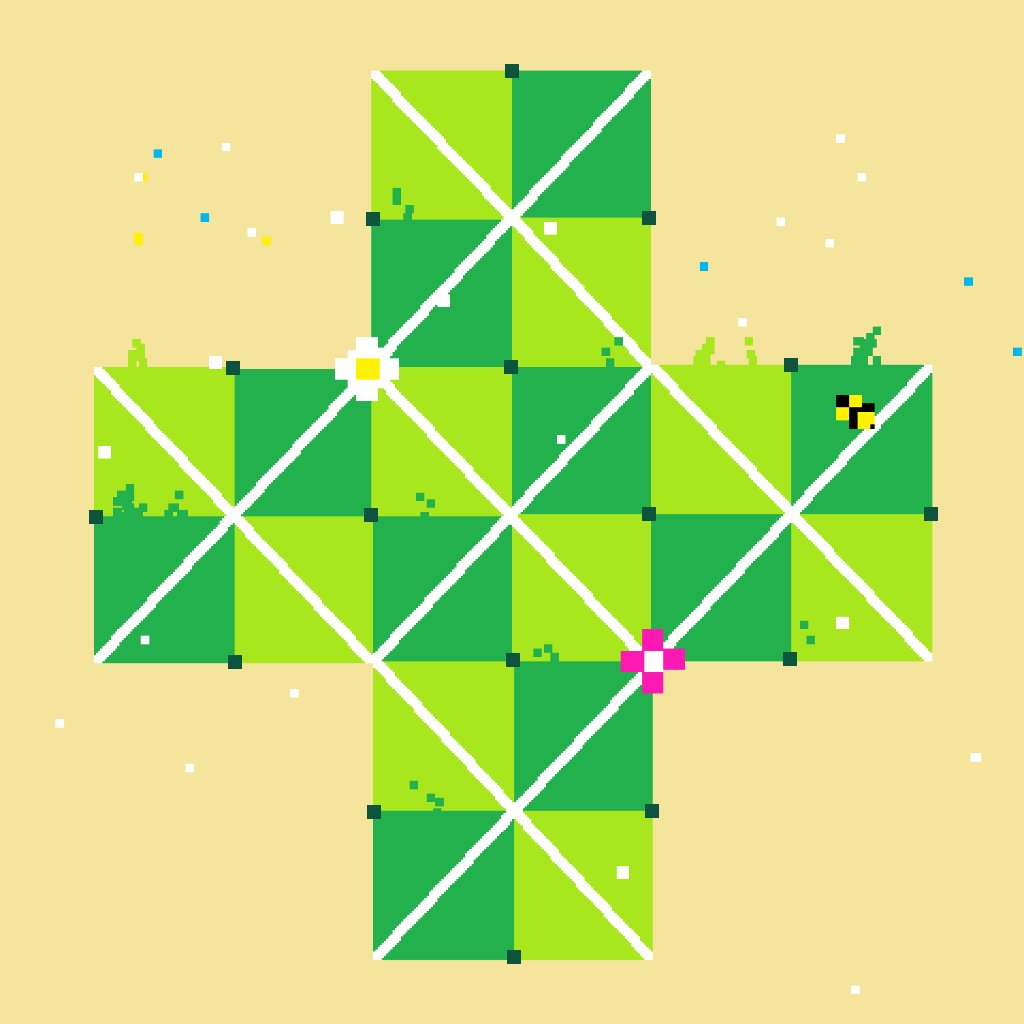
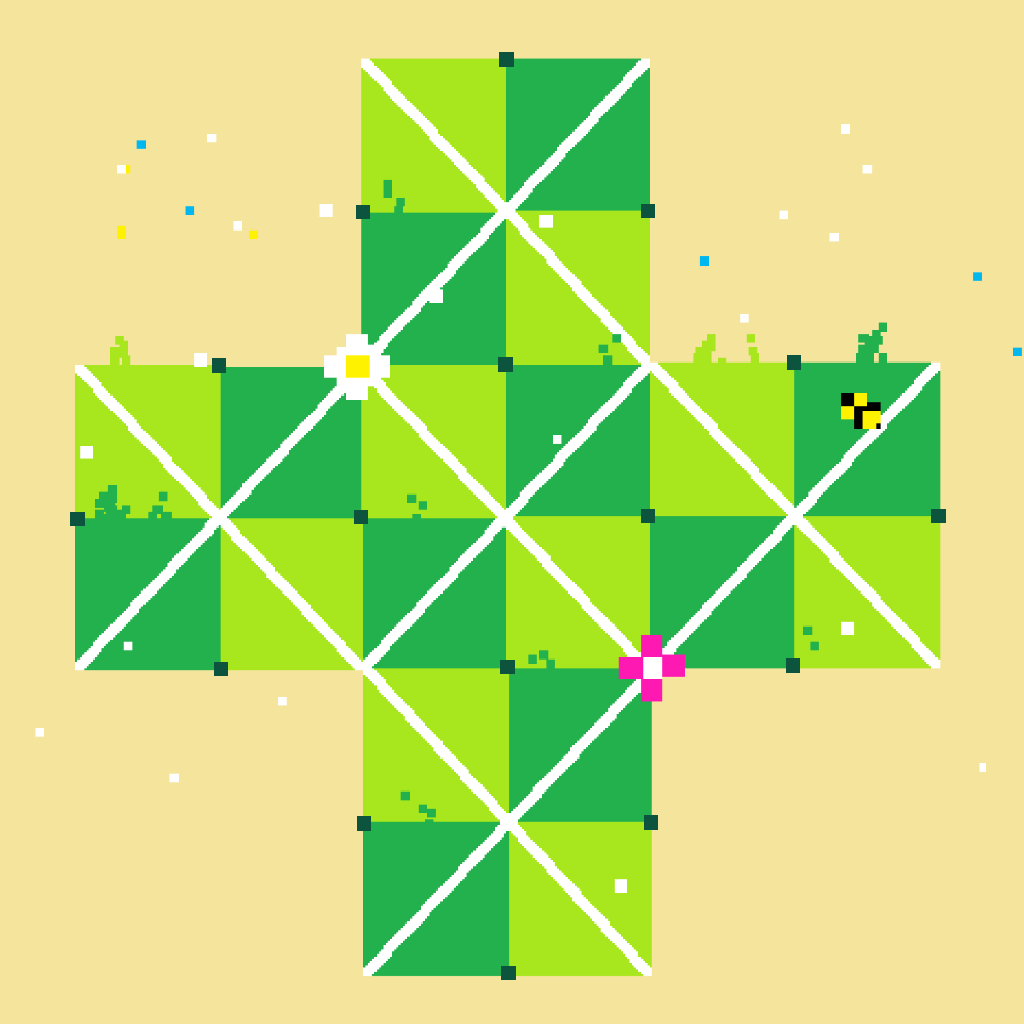
plateau agrandit, pion recentré

diff --git a/src/view/PawnLook.java b/src/view/PawnLook.java
@@ -15,7 +15,7 @@ public class PawnLook extends ElementLook {
     private static final Image GOOSE_SELECTED_IMAGE = new Image("resources/GeeseSelect.png");
 
     private static final double PAWN_SIZE = 70;
-    private static final double OFFSET    = -(PAWN_SIZE / 2.0) + 10.5 ;
+    private static final double OFFSET    = -(PAWN_SIZE / 2.0) + 5.5 ;
 
     private ImageView imageView;
     private boolean isFox;
